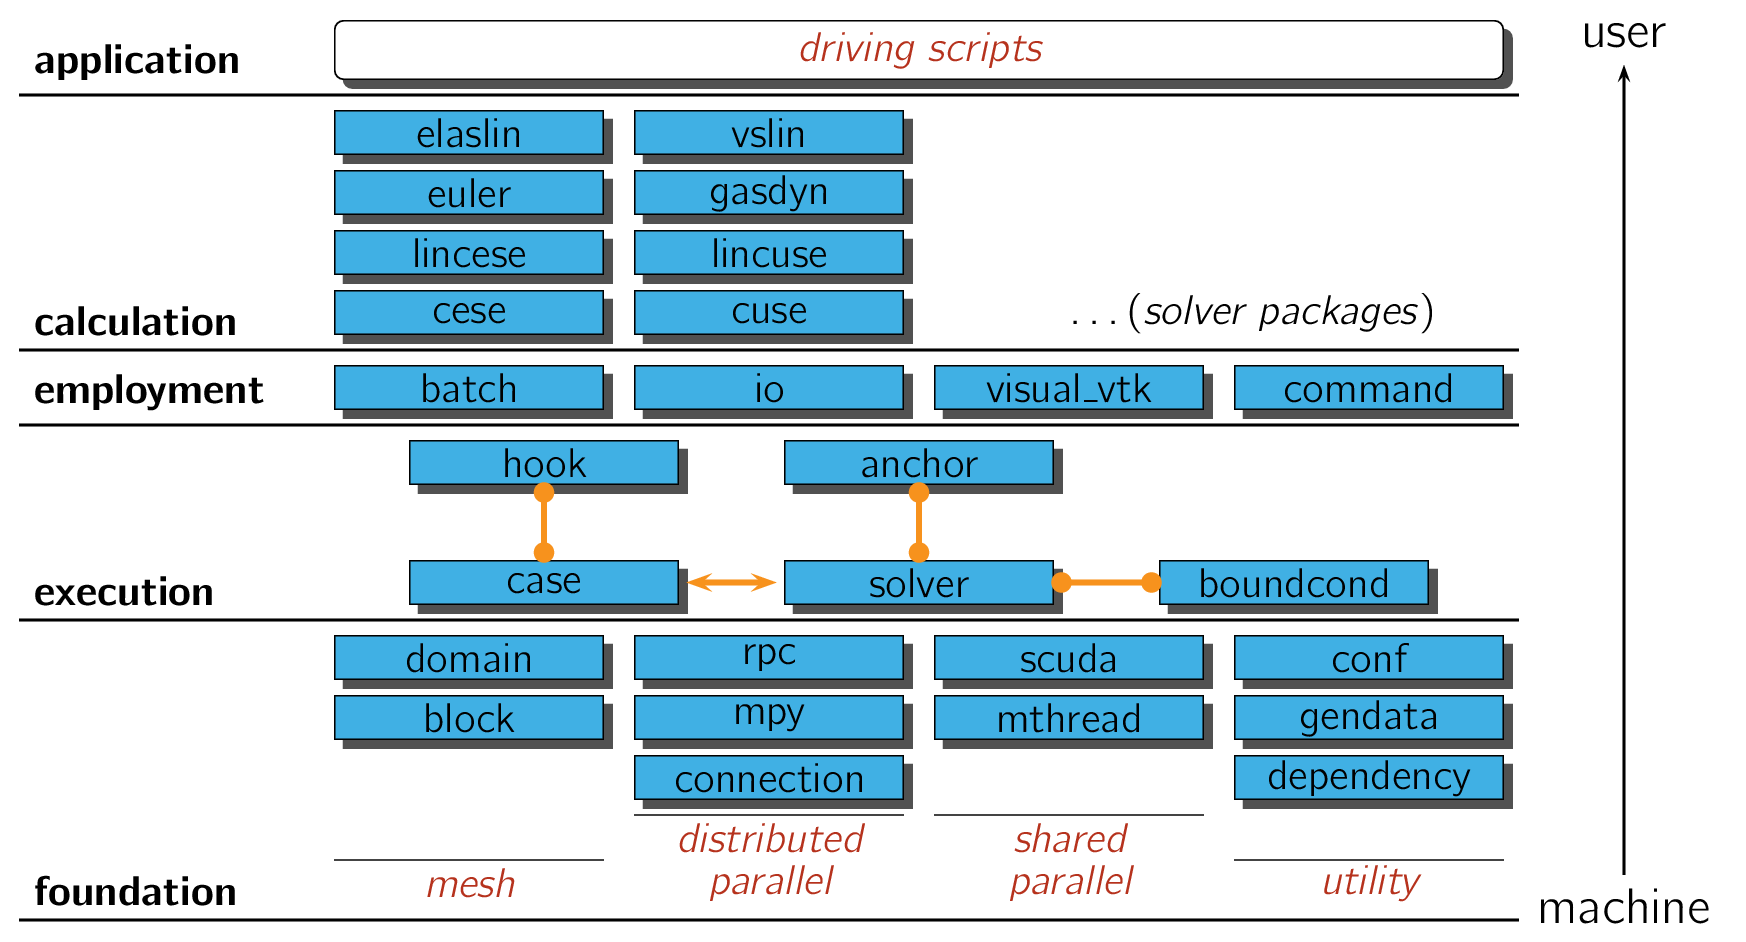
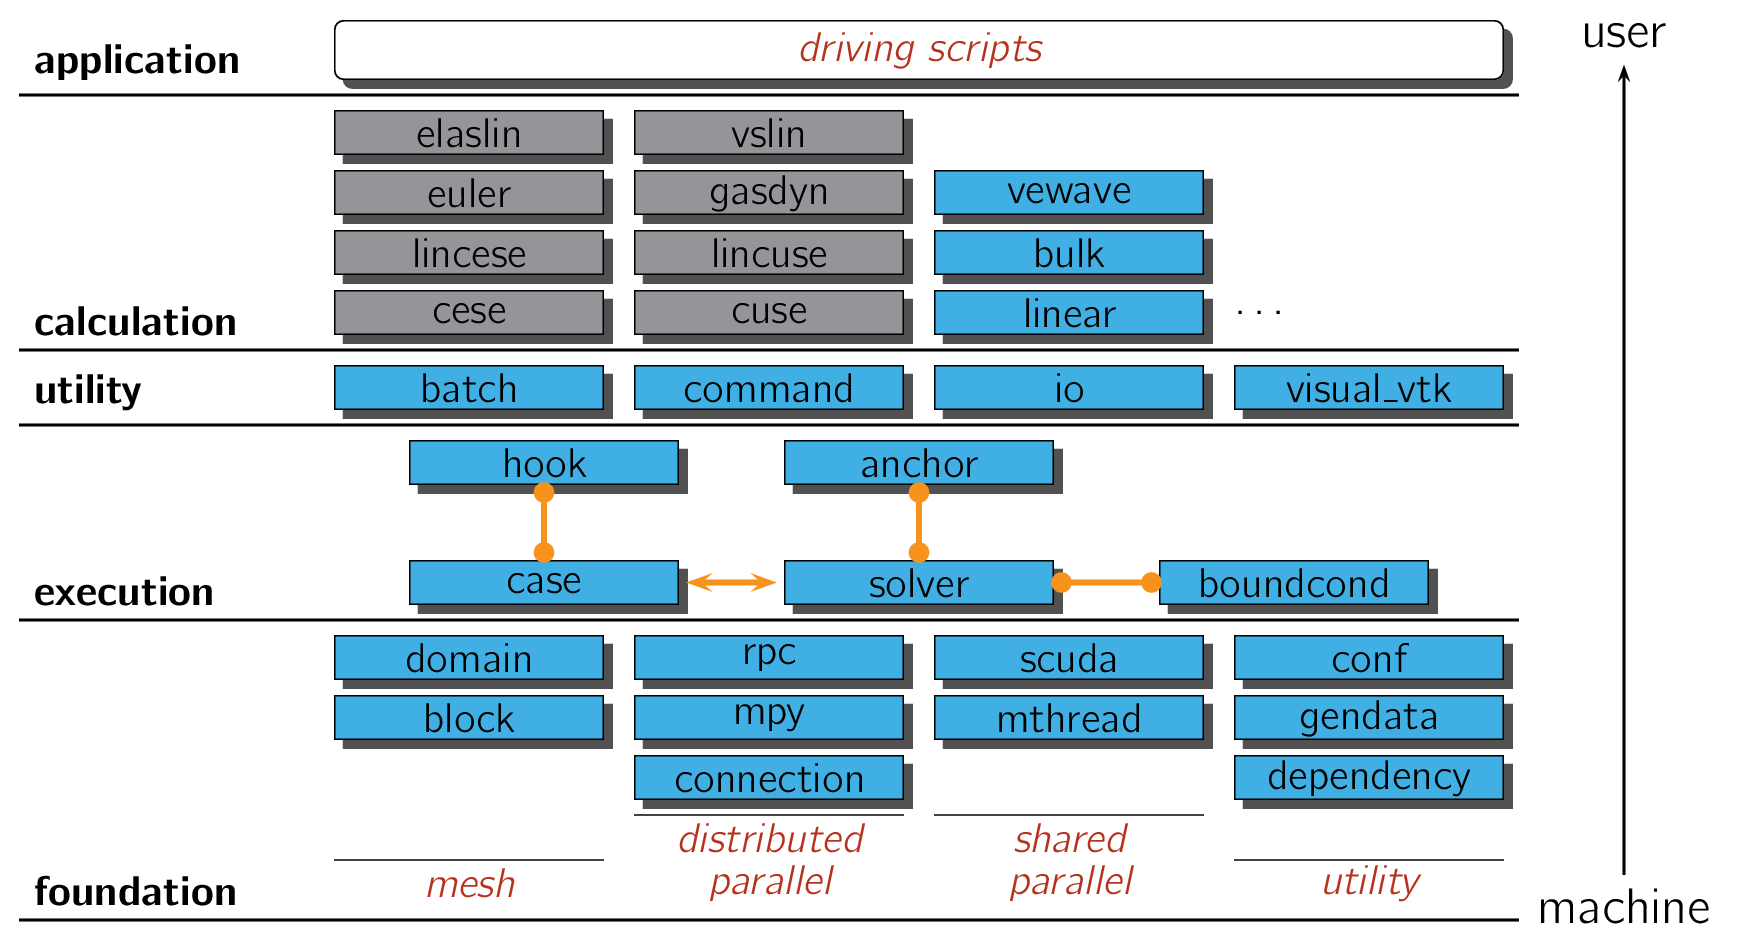
Change SOLVCON stack diagram.

diff --git a/doc/latexschematic/stack.tex b/doc/latexschematic/stack.tex
@@ -4,6 +4,7 @@
 \begin{pspicture}(-2.1,-0.1)(9.4,6.1)
 
 \newcommand{\cmod}{CornflowerBlue}
+\newcommand{\cdmod}{Gray}
 %\newcommand{\ccat}{MidnightBlue}
 \newcommand{\ccat}{BrickRed}
 %\newcommand{\ccat}{NavyBlue}
@@ -71,39 +72,46 @@
 \pcline[linewidth=0.04,linecolor=\crel]{*-*}(4.95,2.25)(5.55,2.25)
 
 \pcline[linewidth=0.02](-2,3.3)(8,3.3)
-\rput[bl](-1.9,3.4){\bfseries employment}
+\rput[bl](-1.9,3.4){\bfseries utility}
 
 \psframe[shadow=true,fillcolor=\cmod](0.1,3.4)(1.9,3.7)
 \rput[c](1,3.55){batch}
 \psframe[shadow=true,fillcolor=\cmod](2.1,3.4)(3.9,3.7)
-\rput[c](3,3.55){io}
+\rput[c](3,3.55){command}
 \psframe[shadow=true,fillcolor=\cmod](4.1,3.4)(5.9,3.7)
-\rput[c](5,3.55){visual\_vtk}
+\rput[c](5,3.55){io}
 \psframe[shadow=true,fillcolor=\cmod](6.1,3.4)(7.9,3.7)
-\rput[c](7,3.55){command}
+\rput[c](7,3.55){visual\_vtk}
 
 \pcline[linewidth=0.02](-2,3.8)(8,3.8)
 \rput[bl](-1.9,3.9){\bfseries calculation}
 
-\psframe[shadow=true,fillcolor=\cmod](0.1,3.9)(1.9,4.2)
+\psframe[shadow=true,fillcolor=\cdmod](0.1,3.9)(1.9,4.2)
 \rput[c](1,4.05){cese}
-\psframe[shadow=true,fillcolor=\cmod](0.1,4.3)(1.9,4.6)
+\psframe[shadow=true,fillcolor=\cdmod](0.1,4.3)(1.9,4.6)
 \rput[c](1,4.45){lincese}
-\psframe[shadow=true,fillcolor=\cmod](0.1,4.7)(1.9,5.0)
+\psframe[shadow=true,fillcolor=\cdmod](0.1,4.7)(1.9,5.0)
 \rput[c](1,4.85){euler}
-\psframe[shadow=true,fillcolor=\cmod](0.1,5.1)(1.9,5.4)
+\psframe[shadow=true,fillcolor=\cdmod](0.1,5.1)(1.9,5.4)
 \rput[c](1,5.25){elaslin}
 
-\psframe[shadow=true,fillcolor=\cmod](2.1,3.9)(3.9,4.2)
+\psframe[shadow=true,fillcolor=\cdmod](2.1,3.9)(3.9,4.2)
 \rput[c](3,4.05){cuse}
-\psframe[shadow=true,fillcolor=\cmod](2.1,4.3)(3.9,4.6)
+\psframe[shadow=true,fillcolor=\cdmod](2.1,4.3)(3.9,4.6)
 \rput[c](3,4.45){lincuse}
-\psframe[shadow=true,fillcolor=\cmod](2.1,4.7)(3.9,5.0)
+\psframe[shadow=true,fillcolor=\cdmod](2.1,4.7)(3.9,5.0)
 \rput[c](3,4.85){gasdyn}
-\psframe[shadow=true,fillcolor=\cmod](2.1,5.1)(3.9,5.4)
+\psframe[shadow=true,fillcolor=\cdmod](2.1,5.1)(3.9,5.4)
 \rput[c](3,5.25){vslin}
 
-\rput[l](5,4.05){\ldots (\textit{solver packages})}
+\psframe[shadow=true,fillcolor=\cmod](4.1,3.9)(5.9,4.2)
+\rput[c](5,4.05){linear}
+\psframe[shadow=true,fillcolor=\cmod](4.1,4.3)(5.9,4.6)
+\rput[c](5,4.45){bulk}
+\psframe[shadow=true,fillcolor=\cmod](4.1,4.7)(5.9,5.0)
+\rput[c](5,4.85){vewave}
+
+\rput[l](6.1,4.05){\ldots}
 
 \pcline[linewidth=0.02](-2,5.5)(8,5.5)
 \rput[bl](-1.9,5.6){\bfseries application}
